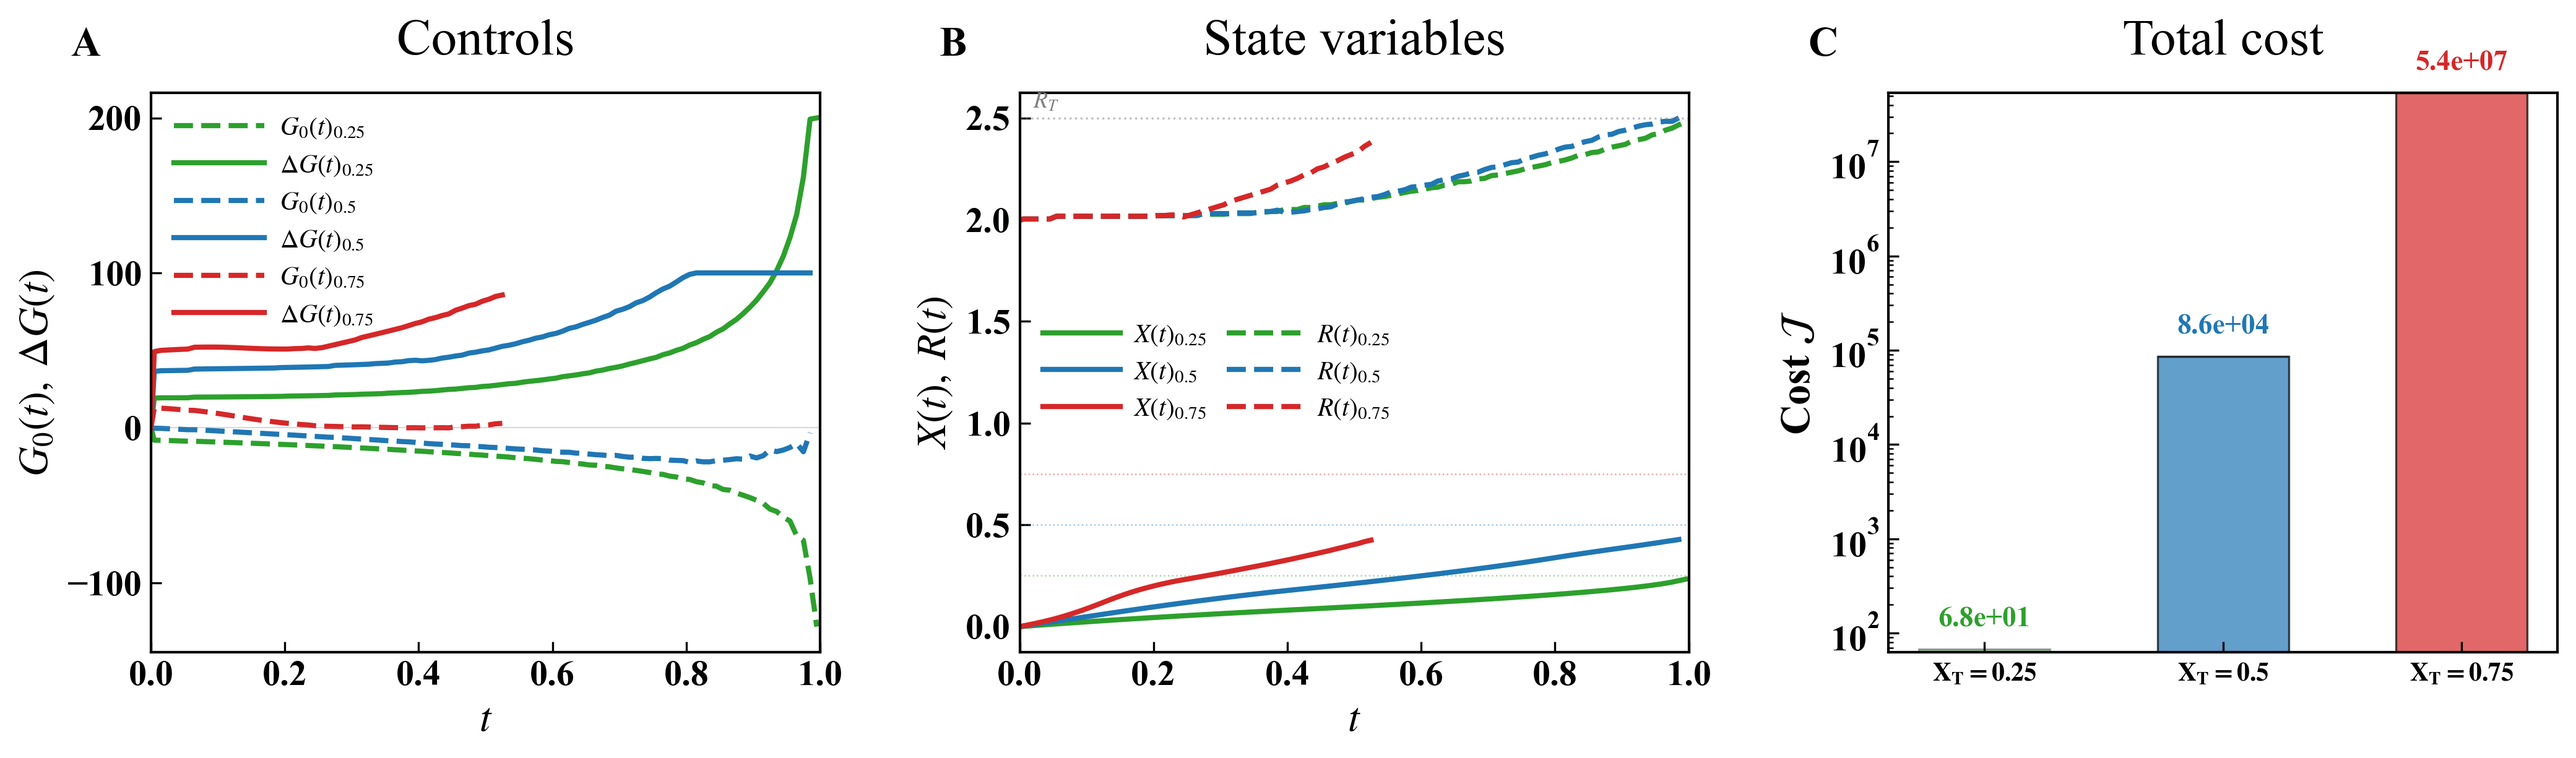
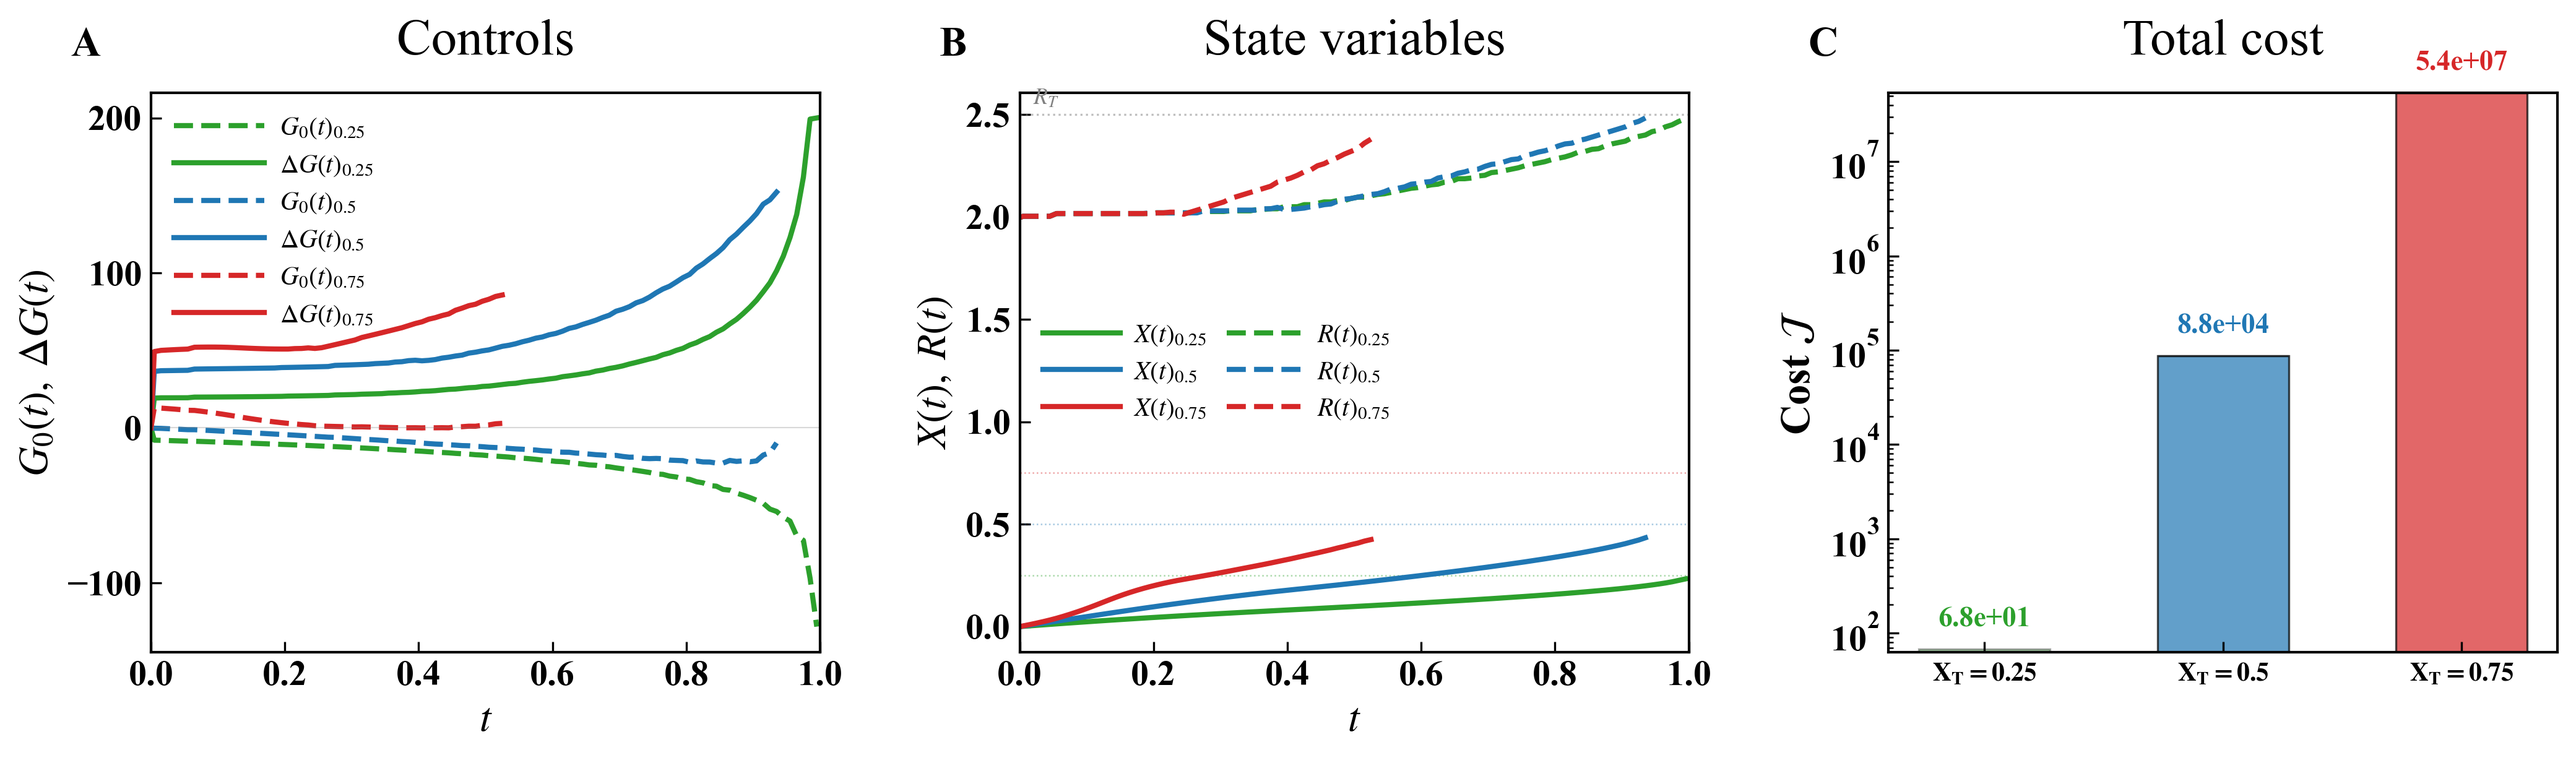
CrossValidated: update figure script, regenerate figure, add CLF verification script

diff --git a/CrossValidated/test.py b/CrossValidated/test.py
@@ -1,0 +1,28 @@
+# for Reducing Cost-Compatibility Verification of Control Lyapunov
+#Functions to a Single Inequality--Aircraft problem
+
+import numpy as np
+from scipy.optimize import minimize
+
+J = np.array([1., 2., 3.])
+sigma = (J[2]-J[1])/J[0] + (J[0]-J[2])/J[1] + (J[1]-J[0])/J[2]  # = 1/3
+r = 10.0
+
+def neg_ratio(p):
+    th, ph = p
+    w = r*np.array([np.sin(th)*np.cos(ph), np.sin(th)*np.sin(ph), np.cos(th)])
+    LfV = -sigma*w[0]*w[1]*w[2]
+    A = 0.25*np.sum(w**2/J**2)
+    return -LfV/A
+
+best = None
+for _ in range(300):
+    x0 = np.random.rand(2)*[np.pi, 2*np.pi]
+    res = minimize(neg_ratio, x0)
+    if best is None or res.fun < best.fun:
+        best = res
+
+th, ph = best.x
+w = r*np.array([np.sin(th)*np.cos(ph), np.sin(th)*np.sin(ph), np.cos(th)])
+print("alpha* =", -best.fun)
+print("omega  =", np.round(w, 2))

diff --git a/CrossValidated/plot_crossvalidation_figure.py b/CrossValidated/plot_crossvalidation_figure.py
@@ -38,7 +38,7 @@ cases = [
     {"XT": 0.25, "color": "#2ca02c", "label": r"$X_T=0.25$",
      "dir": "PMP_on_PDE_XT0p25_RT2p5_gamma0p1/rundir"},
     {"XT": 0.5,  "color": "#1f77b4", "label": r"$X_T=0.5$",
-     "dir": "PMP_on_PDE_XT0p5_RT2p5_gamma0p1/rundir"},
+     "dir": "PMP_on_PDE_XT0p5_RT2p5_gamma0p1_g01_c200/rundir"},
     {"XT": 0.75,  "color": "#d62728", "label": r"$X_T=0.75$",
      "dir": "PMP_on_PDE_XT0p75_RT2p5_gamma0p1/rundir"},
 ]
@@ -251,4 +251,5 @@ for ax in axes:
 plt.tight_layout(w_pad=2.5)
 
 plt.savefig("cross_validation_figure.png", dpi=300, bbox_inches='tight')
+plt.savefig("fig_bar_summary.pdf", bbox_inches="tight")
 
